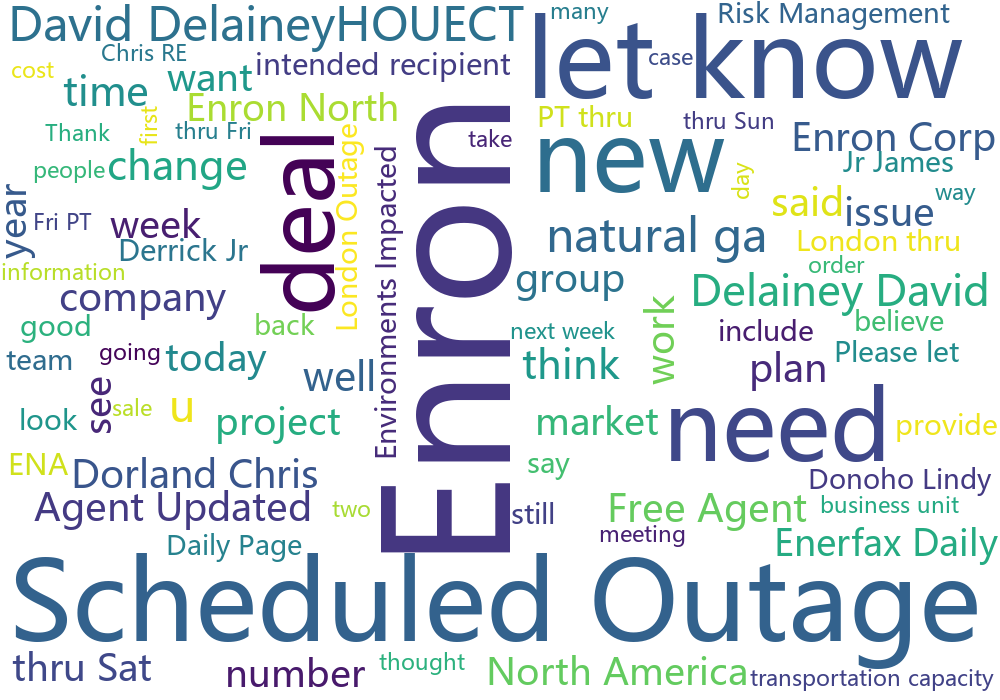
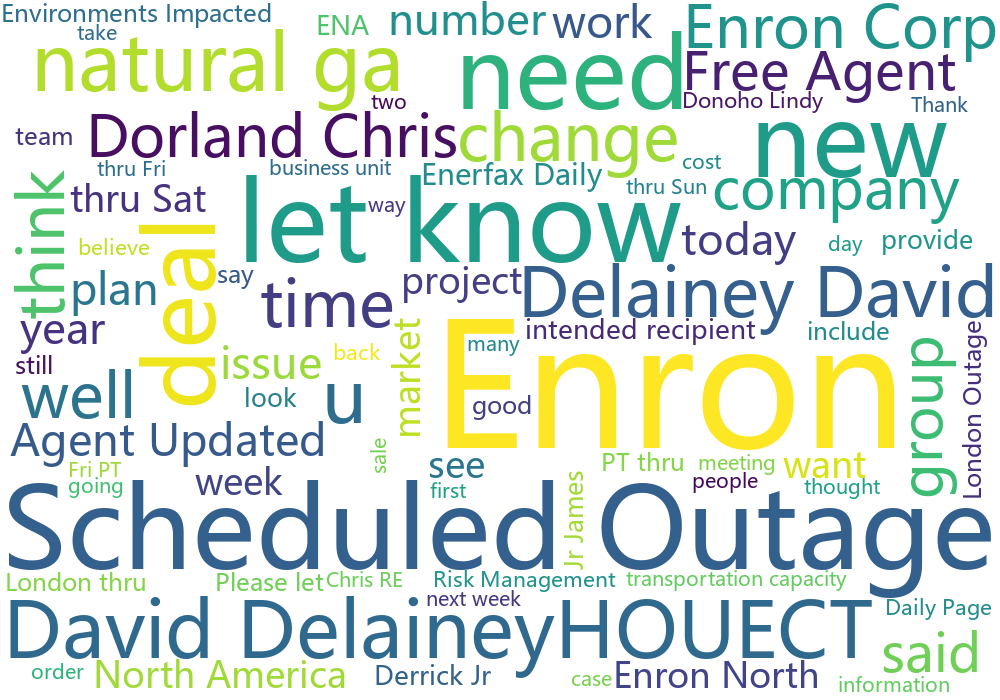
Add comments. Add main module.

diff --git a/programm/WordCloud.py b/programm/WordCloud.py
@@ -1,24 +1,38 @@
+"""
+Word cloud module.
+Author: Zhiyi Wang
+Date: 04-11-2021
+Version: 1.0
+"""
+
 import os
 import wordcloud
-import nltk
 
 from nltk.corpus import stopwords
 from nltk.tokenize import word_tokenize
 
 
+# For the first time, these three lines should be executed to download Dependencies
+# import nltk
 # nltk.download('stopwords')
 # nltk.download('punkt')
 
 def create_word_cloud():
+    """
+    Build and store a word cloud as .png file.
+    You should set input_path and output_path firstly.
+    Returns:
+        None
+
+    """
     input_path = r'./data/email_corpus/'
     output_path = r'./data/word_cloud/'
     for file in os.listdir(input_path):
         with open(input_path + file, 'r') as f:
-            # print(file)
             tmp = f.read()
-            # print('123')
-            # Create a word cloud instance and set the parameters
+            # Remove the stop words
             tmp = remove_stop_words(tmp)
+            # Create a word cloud instance and set the parameters
             word_cloud = wordcloud.WordCloud(width=1000, height=700, background_color='white', font_path='msyh.ttc',
                                              max_words=80)
             # Generate the word cloud
@@ -27,13 +41,22 @@ def create_word_cloud():
             ls = file.split('.')
             word_cloud.to_file(output_path + ls[0] + '.png')
         f.close()
-        break
+        return None
 
 
 def remove_stop_words(text):
+    """
+    remove stop words in a string
+    Args:
+        text: a piece of corpus
+
+    Returns:
+        res: the piece of corpus without stop words
+
+    """
     # Import default stop words set
     stop_words = set(stopwords.words('english'))
-    # Add some unmeaning words
+    # Add some words you what to remove
     custom_words = ["PM", "A", "I", "P", "L", "T", "He", "She", "J", "W", "may", "can", "could", "you", "You", "him",
                     "her", "mpelinkscriptplayersleaguebigeownerrandomkey", "Sent", "please",
                     "his", "imggif", "Original", "Regards",
@@ -42,11 +65,7 @@ def remove_stop_words(text):
                     "IMAGE"]
     custom_words = set(custom_words)
     stop_words = stop_words.union(custom_words)
-
     word_tokens = word_tokenize(text)
     filtered_sentence = [wt for wt in word_tokens if not wt in stop_words]
     res = " ".join(filtered_sentence)
     return res
-
-
-create_word_cloud()

diff --git a/programm/Test.py b/programm/Test.py
@@ -1,32 +1,8 @@
-# this file is used for unit test
-import pandas as pd
-import re
+"""
+Unit Test module, use it as appropriate
+Author: Zhiyi Wang
+Date: 04-11-2021
+Version: 1.0
+"""
 
-input_path = r'./data/email_split/'
-
-output_path = r'./data/email_corpus/'
-file = 'emails_10_corpus.txt'
-
-df = pd.read_csv(input_path + 'emails_10.csv', index_col='Message_ID')
-ls = file.split('.')
-with open(output_path + file, 'w') as f:
-    tmp = str(list(df['Text']))
-    tmp = tmp[1:-1]
-
-    # remove email address in Text
-    tmp = re.sub(r"[a-zA-Z0-9\.\-+_]+@[a-z0-9\.\-+_]+\.[a-z]+", '', tmp)
-    tmp = re.sub(r"[a-zA-Z/]+@[a-zA-Z]", " ", tmp)
-    # remove url in text
-    tmp = re.sub(r'https?://(?:[-\w.]|(?:%[\da-fA-F]{2}))+', '', tmp)
-    tmp = re.sub(r'[a-zA-Z]+://[^\s]*', '', tmp)
-
-    # remove punctuation in text
-    text_pattern = re.compile(u'[\s\w]').findall(tmp)
-    tmp = "".join(text_pattern)
-    tmp = re.sub(r"[\d+|_]", "", tmp)
-
-    # remove redundant space in text
-    tmp = re.sub(r"\s+", " ", tmp)
-    f.write(tmp)
-    # print(tmp)
-    # print(type(tmp))
+print("Ha Ha Ha.")

diff --git a/programm/DataPreprocess.py b/programm/DataPreprocess.py
@@ -1,10 +1,16 @@
+"""
+Data pre-process module.
+Author: Zhiyi Wang
+Date: 04-11-2021
+Version: 1.0
+"""
+
 import pandas as pd
 import os
 import re
 import EmailExtract as email_extract
 
-""" This is data process module
-"""
+# Global set
 # Original data frame
 df_original = None
 # Total email number: 517401
@@ -16,6 +22,14 @@ file_count = 1
 
 
 def split_data(file_name=None):
+    """
+    split the original data set
+    Args:
+        file_name: the path of original downloaded from data source
+    Returns:
+        None
+
+    """
     global df_original
     global emails_count
     global emails_count_in_file
@@ -88,15 +102,3 @@ def build_corpus():
         print(file)
     return None
 
-
-def main():
-    # split_data('./data/emails.csv')
-    # split_data('./data/emails.csv')
-    # extract_message_id()
-    # convert_email()
-
-    build_corpus()
-
-
-if __name__ == '__main__':
-    main()

diff --git a/programm/EmailExtract.py b/programm/EmailExtract.py
@@ -1,3 +1,10 @@
+"""
+Email message extract module.
+Author: Zhiyi Wang
+Date: 04-11-2021
+Version: 1.0
+"""
+
 import pandas as pd
 
 
@@ -94,5 +101,3 @@ def extract_emails(input_email_data_frame):
         email_dct['Text'] = text
         email_df = email_df.append(email_dct, ignore_index=True)
     return email_df
-    # tmp_df.to_csv('{}{}'.format(target_folder, csv_file_name), index=False)
-    # tmp_df.to_excel('./data/email_split/emails_1.xlsx', index=False)

diff --git a/programm/Main.py b/programm/Main.py
@@ -1,8 +1,18 @@
+"""
+Main module, implements the workflow
+Author: Zhiyi Wang
+Date: 04-11-2021
+Version: 1.0
+"""
 import DataPreprocess as data_preprocess
+import WordCloud as word_cloud
 
 
 def main():
-    data_preprocess.split_data('./data/emails.csv')
+    # data_preprocess.split_data('./data/emails.csv')
+    # data_preprocess.convert_email()
+    # data_preprocess.build_corpus()
+    word_cloud.create_word_cloud()
 
 
 if __name__ == '__main__':
